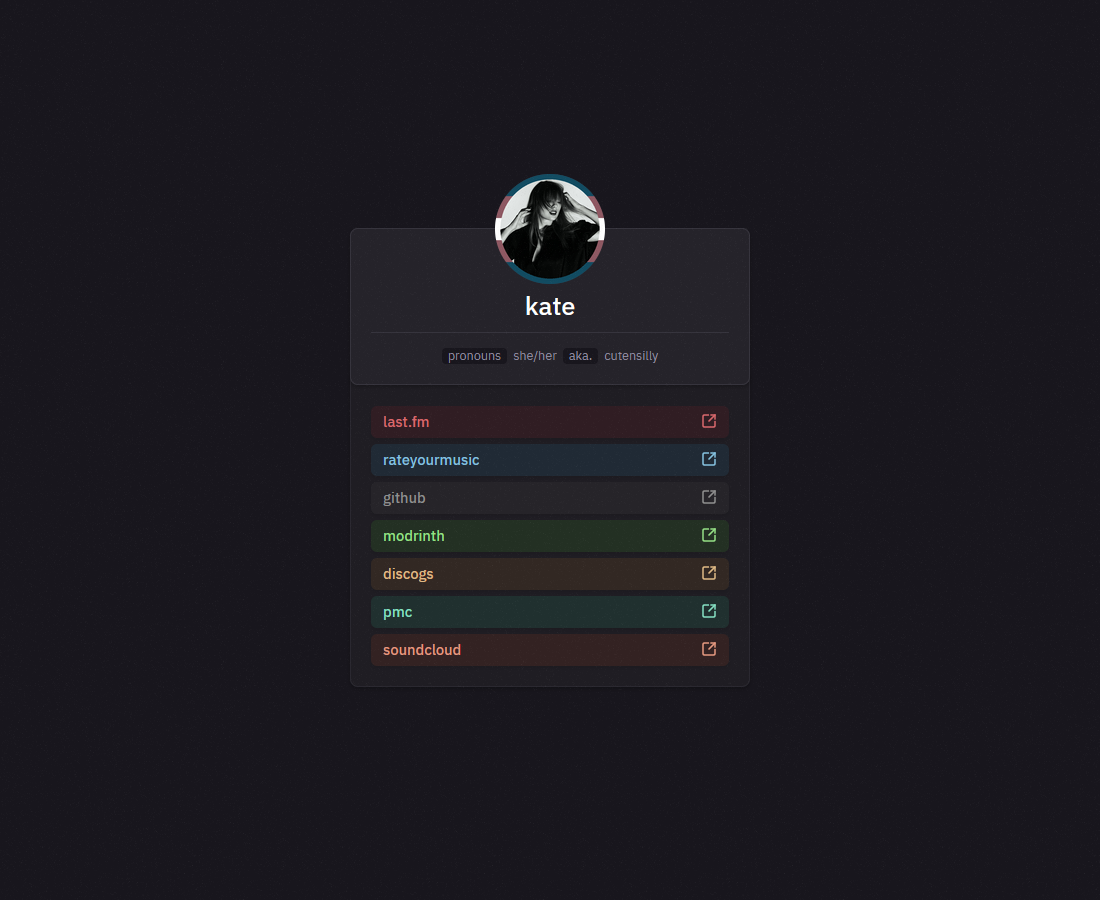
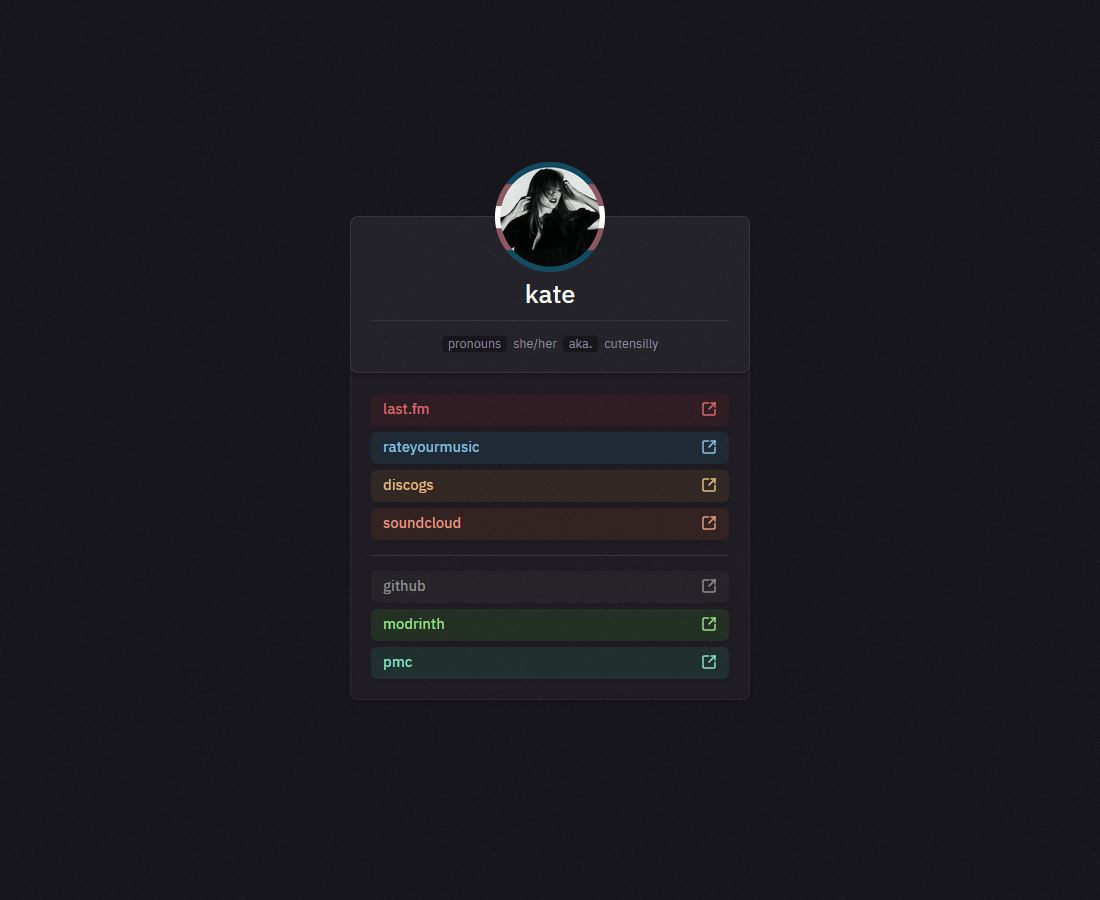
feat: separate buttons

diff --git a/index.html b/index.html
@@ -40,35 +40,40 @@
                 <strong>aka.</strong>cutensilly
             </p>
         </section>
-        <section class="panel flex flex-column flex-gap bottom-card btns" style="gap: 6px">
-            <a class="btn lastfm" href="https://www.last.fm/user/cutensilly" target="_blank">
-                <span class="text">last.fm</span>
-                <i class="icon w-16" data-lucide="square-arrow-out-up-right"></i>
-            </a>
-            <a class="btn rym" href="https://rateyourmusic.com/~kateshapedbox" target="_blank">
-                <span class="text">rateyourmusic</span>
-                <i class="icon w-16" data-lucide="square-arrow-out-up-right"></i>
-            </a>
-            <a class="btn github" href="https://github.com/katelyynn" target="_blank">
-                <span class="text">github</span>
-                <i class="icon w-16" data-lucide="square-arrow-out-up-right"></i>
-            </a>
-            <a class="btn modrinth" href="https://modrinth.com/user/kate" target="_blank">
-                <span class="text">modrinth</span>
-                <i class="icon w-16" data-lucide="square-arrow-out-up-right"></i>
-            </a>
-            <a class="btn discogs" href="https://www.discogs.com/user/katenyaa/collection" target="_blank">
-                <span class="text">discogs</span>
-                <i class="icon w-16" data-lucide="square-arrow-out-up-right"></i>
-            </a>
-            <a class="btn pmc" href="https://planetminecraft.com/member/katee" target="_blank">
-                <span class="text">pmc</span>
-                <i class="icon w-16" data-lucide="square-arrow-out-up-right"></i>
-            </a>
-            <a class="btn soundcloud" href="https://soundcloud.com/77kate" target="_blank">
-                <span class="text">soundcloud</span>
-                <i class="icon w-16" data-lucide="square-arrow-out-up-right"></i>
-            </a>
+        <section class="panel flex flex-column flex-gap bottom-card btns">
+            <div class="flex flex-column flex-gap btns" style="gap: 6px">
+                <a class="btn lastfm" href="https://www.last.fm/user/cutensilly" target="_blank">
+                    <span class="text">last.fm</span>
+                    <i class="icon w-16" data-lucide="square-arrow-out-up-right"></i>
+                </a>
+                <a class="btn rym" href="https://rateyourmusic.com/~kateshapedbox" target="_blank">
+                    <span class="text">rateyourmusic</span>
+                    <i class="icon w-16" data-lucide="square-arrow-out-up-right"></i>
+                </a>
+                <a class="btn discogs" href="https://www.discogs.com/user/katenyaa/collection" target="_blank">
+                    <span class="text">discogs</span>
+                    <i class="icon w-16" data-lucide="square-arrow-out-up-right"></i>
+                </a>
+                <a class="btn soundcloud" href="https://soundcloud.com/77kate" target="_blank">
+                    <span class="text">soundcloud</span>
+                    <i class="icon w-16" data-lucide="square-arrow-out-up-right"></i>
+                </a>
+            </div>
+            <div class="sep"></div>
+            <div class="flex flex-column flex-gap btns" style="gap: 6px">
+                <a class="btn github" href="https://github.com/katelyynn" target="_blank">
+                    <span class="text">github</span>
+                    <i class="icon w-16" data-lucide="square-arrow-out-up-right"></i>
+                </a>
+                <a class="btn modrinth" href="https://modrinth.com/user/kate" target="_blank">
+                    <span class="text">modrinth</span>
+                    <i class="icon w-16" data-lucide="square-arrow-out-up-right"></i>
+                </a>
+                <a class="btn pmc" href="https://planetminecraft.com/member/katee" target="_blank">
+                    <span class="text">pmc</span>
+                    <i class="icon w-16" data-lucide="square-arrow-out-up-right"></i>
+                </a>
+            </div>
         </section>
     </main>
 </body>
